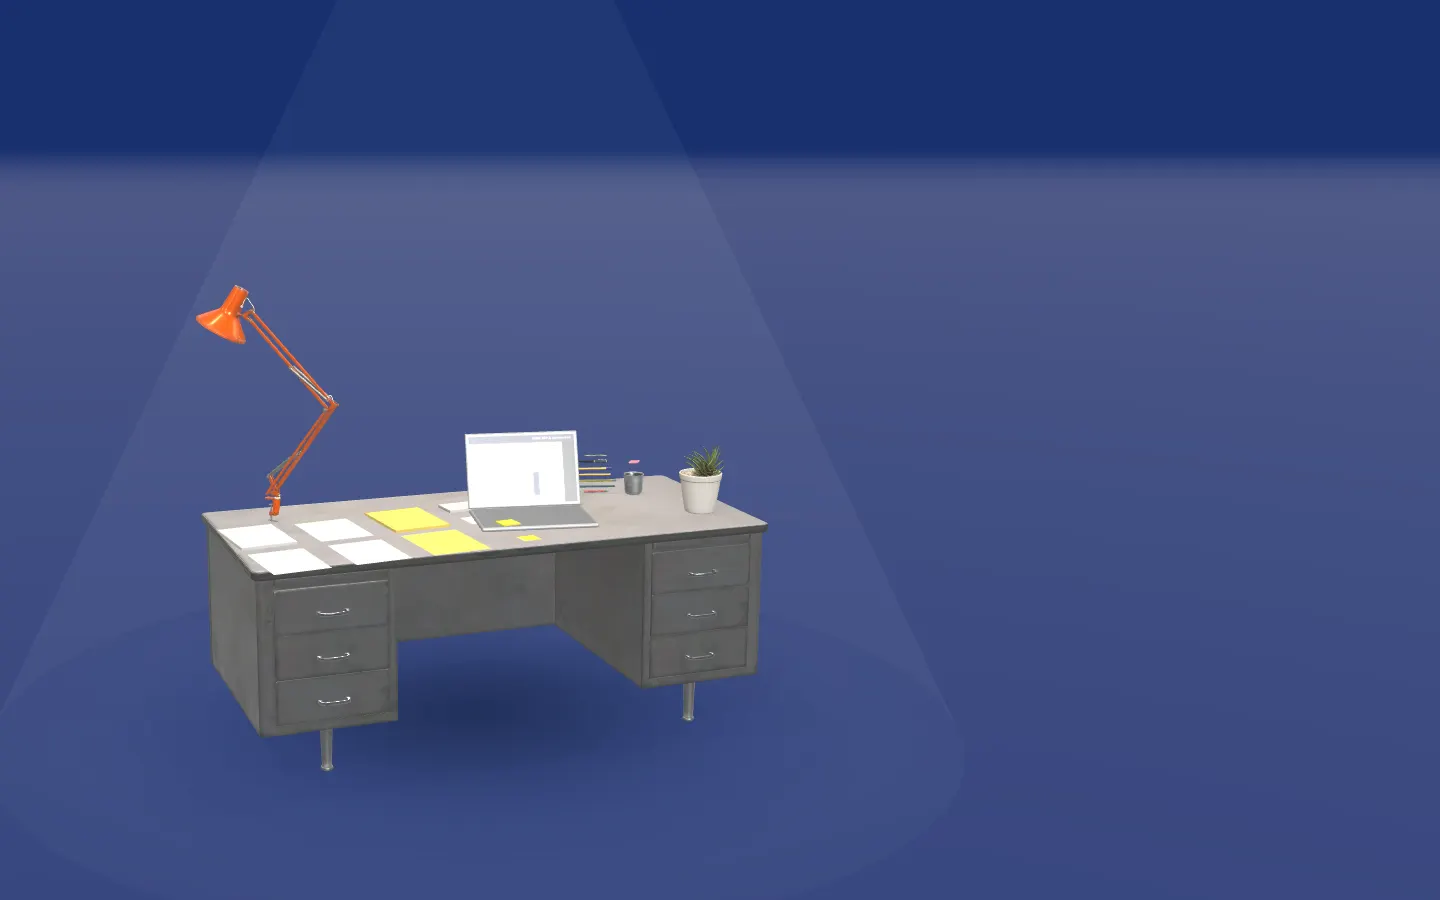
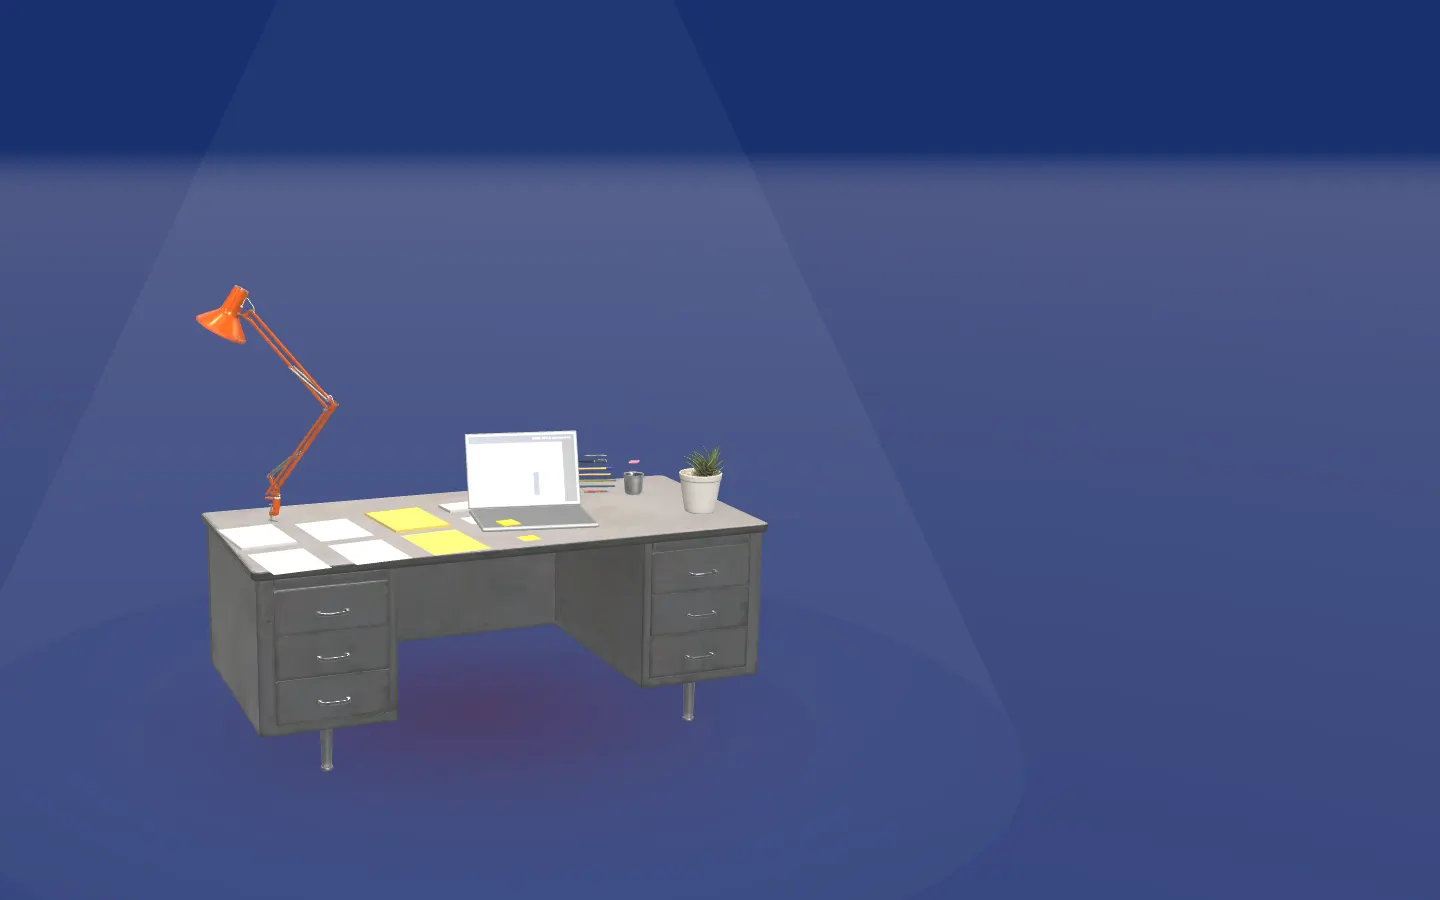
Opening view: every system measured and shown at the same, slightly larger size; lighter shadows in the site colour for all; smaller ceiling lamp; stills regenerated

Changed region(s): [[0.2188, 0.7156, 0.4375, 0.8711]]

diff --git a/src/three/Showroom.tsx b/src/three/Showroom.tsx
@@ -216,7 +216,9 @@ const ease = (t: number) => t * t * (3 - 2 * t)
 /** Seconds a system takes to gather (or scatter) in the opening view. */
 const SWAP_S = 1.5
 /** How much bigger the single system is in the opening view than at its stop. */
-const HERO_SCALE = 2.7 // size of the system shown alone in the opening view
+const HERO_SCALE = 3 // size of the system shown alone in the opening view
+/** Every system sits on the same tinted ground, in the site's main colour. */
+const GROUND_COLOR = '#5e1a2c'
 
 /* ---------- the lamp that hangs over the gallery and follows the visitor ---------- */
 function useLamp(scenes: Record<string, THREE.Object3D>) {
@@ -259,7 +261,7 @@ function useLamp(scenes: Record<string, THREE.Object3D>) {
     spot.shadow.mapSize.set(2048, 2048)
     spot.shadow.bias = -0.0003
     spot.shadow.normalBias = 0.03
-    spot.shadow.intensity = 0.5 // softer shadows under the objects
+    spot.shadow.intensity = 0.3 // softer shadows under the objects
     return { rig, beam, spot, bottom, bulbMat }
   }, [scenes])
 }
@@ -499,10 +501,10 @@ const SHADOW_TEX = (() => {
   c.width = c.height = 256
   const x = c.getContext('2d')!
   const g = x.createRadialGradient(128, 128, 0, 128, 128, 128)
-  g.addColorStop(0, 'rgba(0,0,0,.26)')
-  g.addColorStop(0.35, 'rgba(0,0,0,.17)')
-  g.addColorStop(0.7, 'rgba(0,0,0,.05)')
-  g.addColorStop(1, 'rgba(0,0,0,0)')
+  g.addColorStop(0, 'rgba(255,255,255,.2)')
+  g.addColorStop(0.35, 'rgba(255,255,255,.13)')
+  g.addColorStop(0.7, 'rgba(255,255,255,.04)')
+  g.addColorStop(1, 'rgba(255,255,255,0)')
   x.fillStyle = g
   x.fillRect(0, 0, 256, 256)
   return new THREE.CanvasTexture(c)
@@ -527,12 +529,12 @@ function ground(color: string) {
   const g = new THREE.Group()
   const glow = new THREE.Mesh(
     new THREE.PlaneGeometry(GALLERY.stationSize * 1.5, GALLERY.stationSize * 1.5).rotateX(-Math.PI / 2),
-    new THREE.MeshBasicMaterial({ color, map: GLOW_TEX, transparent: true, depthWrite: false }),
+    new THREE.MeshBasicMaterial({ color, map: GLOW_TEX, transparent: true, opacity: 0.35, depthWrite: false }),
   )
   glow.position.y = 0.004
   const contact = new THREE.Mesh(
     new THREE.PlaneGeometry(GALLERY.stationSize * 1.05, GALLERY.stationSize * 1.05).rotateX(-Math.PI / 2),
-    new THREE.MeshBasicMaterial({ map: SHADOW_TEX, transparent: true, depthWrite: false }),
+    new THREE.MeshBasicMaterial({ color, map: SHADOW_TEX, transparent: true, depthWrite: false }),
   )
   contact.position.y = 0.008
   g.add(glow, contact)
@@ -550,7 +552,7 @@ function Stations({ interactive, fixedStop, reduced, onLamp }: { interactive: bo
   const lamp = useLamp(scenes)
   useEffect(() => onLamp(lamp), [lamp, onLamp])
 
-  const { groups, outers, parts } = useMemo(() => {
+  const { groups, outers, parts, norms } = useMemo(() => {
     const groups: THREE.Group[] = []
     const outers = STATIONS.map((_, i) => {
       const g = buildStation(i, scenes)
@@ -559,9 +561,15 @@ function Stations({ interactive, fixedStop, reduced, onLamp }: { interactive: bo
       const p = spotPos(i)
       outer.position.set(p.x, 0, p.z)
       outer.rotation.y = p.ry
-      outer.add(ground(tourStops[i].color), g)
+      outer.add(ground(GROUND_COLOR), g)
       return outer
     })
+    const sizes = groups.map((g) => {
+      const v = new THREE.Box3().setFromObject(g).getSize(new THREE.Vector3())
+      return Math.max(v.x, v.z, v.y * 1.1)
+    })
+    const avg = sizes.slice(0, tourStops.length - 1).reduce((a, b) => a + b, 0) / (tourStops.length - 1)
+    const norms = sizes.map((sz) => avg / Math.max(0.01, sz))
     // every piece of every station remembers its resting place, so it can fly off and come back
     const parts = groups.map((g) =>
       g.children[0].children.map((o, k, all) => {
@@ -577,7 +585,7 @@ function Stations({ interactive, fixedStop, reduced, onLamp }: { interactive: bo
         }
       }),
     )
-    return { groups, outers, parts }
+    return { groups, outers, parts, norms }
   }, [scenes])
   const shown = useRef(STATIONS.map(() => 1))
   // 1 = assembled, 0 = scattered
@@ -607,7 +615,7 @@ function Stations({ interactive, fixedStop, reduced, onLamp }: { interactive: bo
       const e = v * v * (3 - 2 * v)
       const sp = spotPos(i)
       outers[i].position.set(sp.x * (1 - b), 0, sp.z * (1 - b))
-      const hs = HERO_SCALE * (STATIONS[i].heroScale ?? 1)
+      const hs = HERO_SCALE * norms[i]
       outers[i].scale.setScalar(Math.max(0.001, e * (1 + (hs - 1) * b)))
       outers[i].visible = e > 0.01 && a > 0.001
       outers[i].children[0].scale.setScalar(Math.max(0.001, a))
@@ -739,7 +747,7 @@ export default function Showroom({ reduced, mobile, fixedStop, interactive = fal
         shadow-mapSize={[mobile ? 1024 : 2048, mobile ? 1024 : 2048]}
         shadow-bias={-0.0004}
         shadow-normalBias={0.03}
-        shadow-intensity={0.5}
+        shadow-intensity={0.3}
         shadow-camera-left={-12}
         shadow-camera-right={12}
         shadow-camera-top={12}

diff --git a/src/three/stations.ts b/src/three/stations.ts
@@ -170,7 +170,7 @@ export const GALLERY = {
 }
 
 /** The lamp: how high it hangs over the overview and over each system. */
-export const LAMP = { file: 'modern_ceiling_lamp_01', scale: 1.7, heroHeight: 6.4, stopHeight: 5.4, heroAngle: 1.05, stopAngle: 0.5 }
+export const LAMP = { file: 'modern_ceiling_lamp_01', scale: 1.25, heroHeight: 6.4, stopHeight: 5.4, heroAngle: 1.05, stopAngle: 0.5 }
 
 /** The opening view: the whole line, seen from the front. The distance is fitted to the screen width at runtime. */
 export const HERO_SHOT = { pos: [0, 16, 26] as const, look: [0, 0.6, 0.8] as const }
